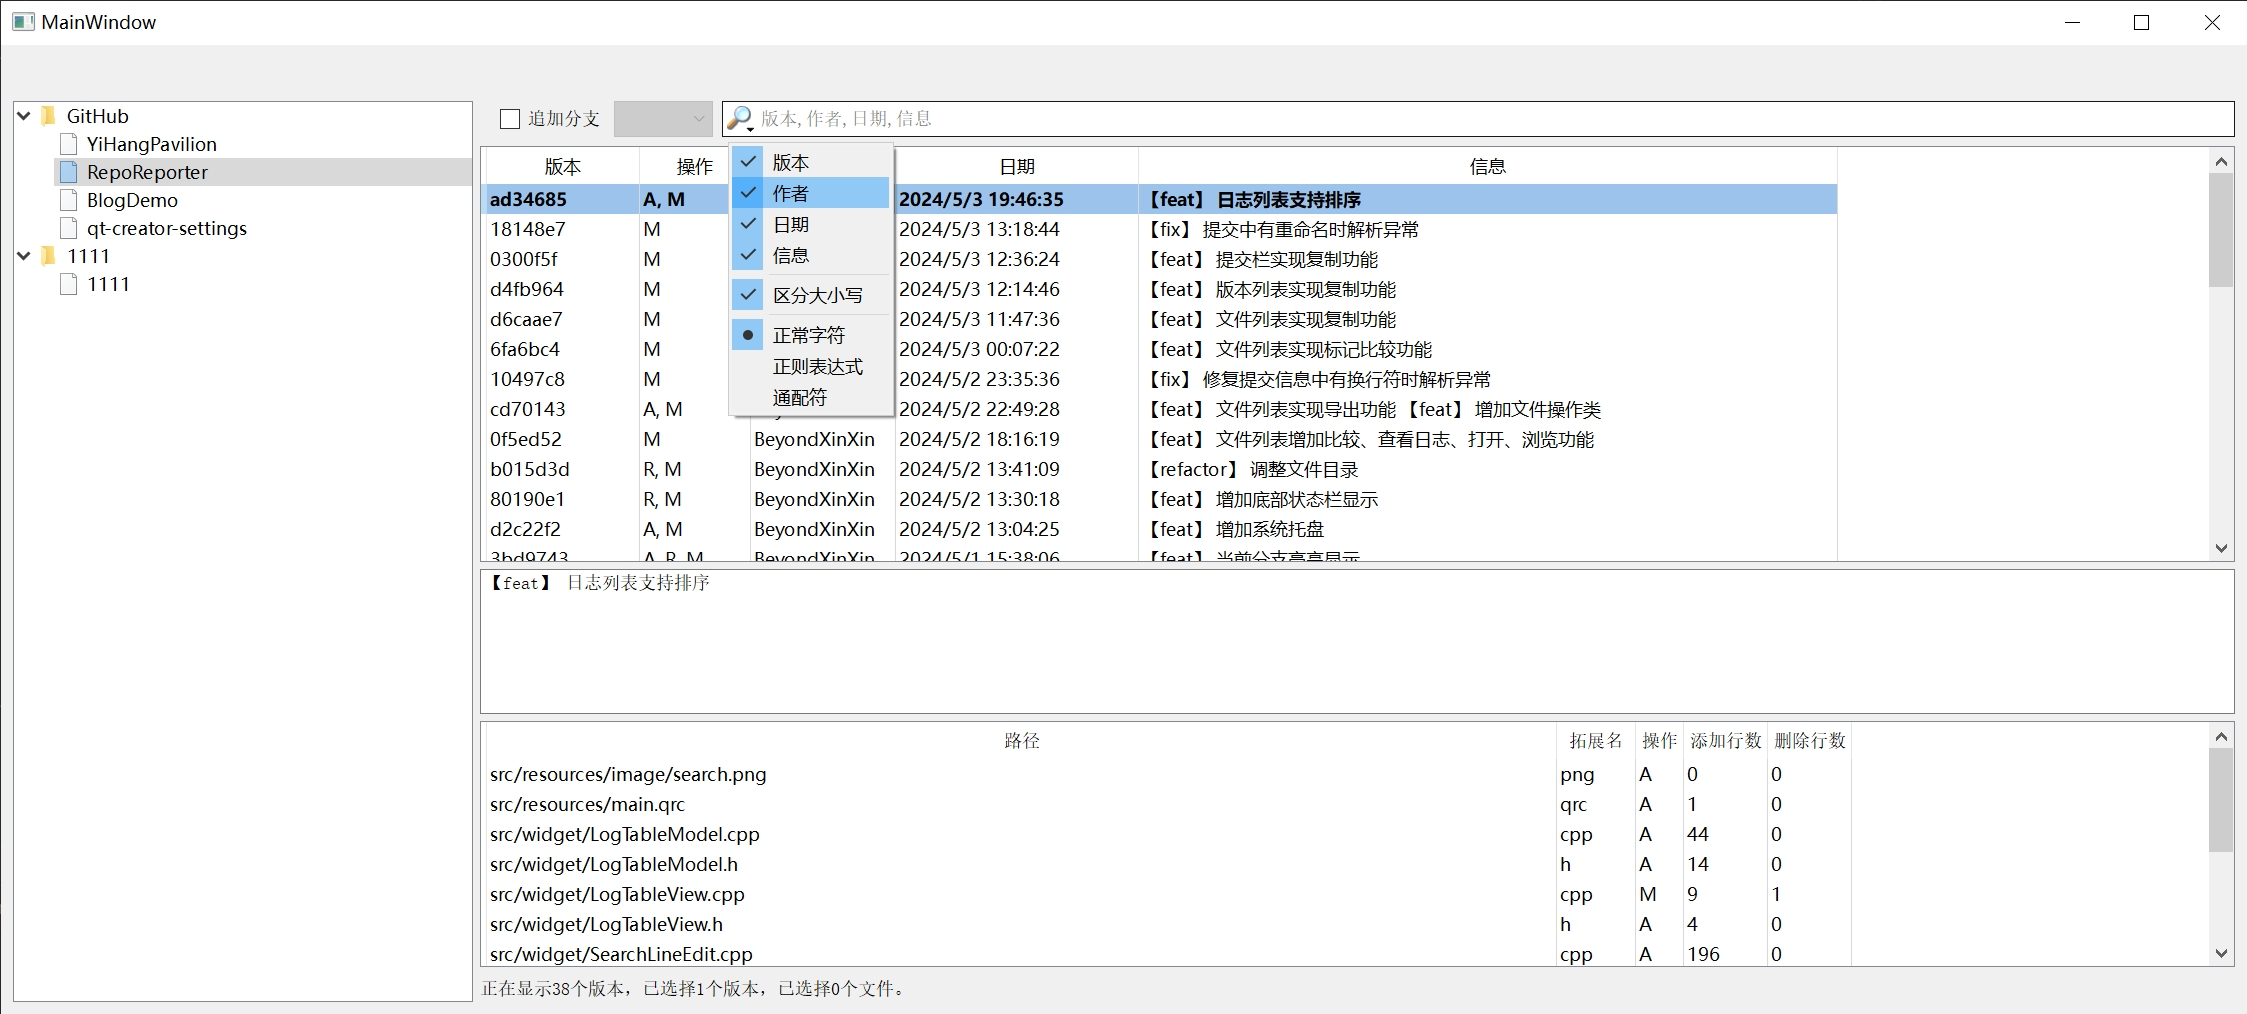
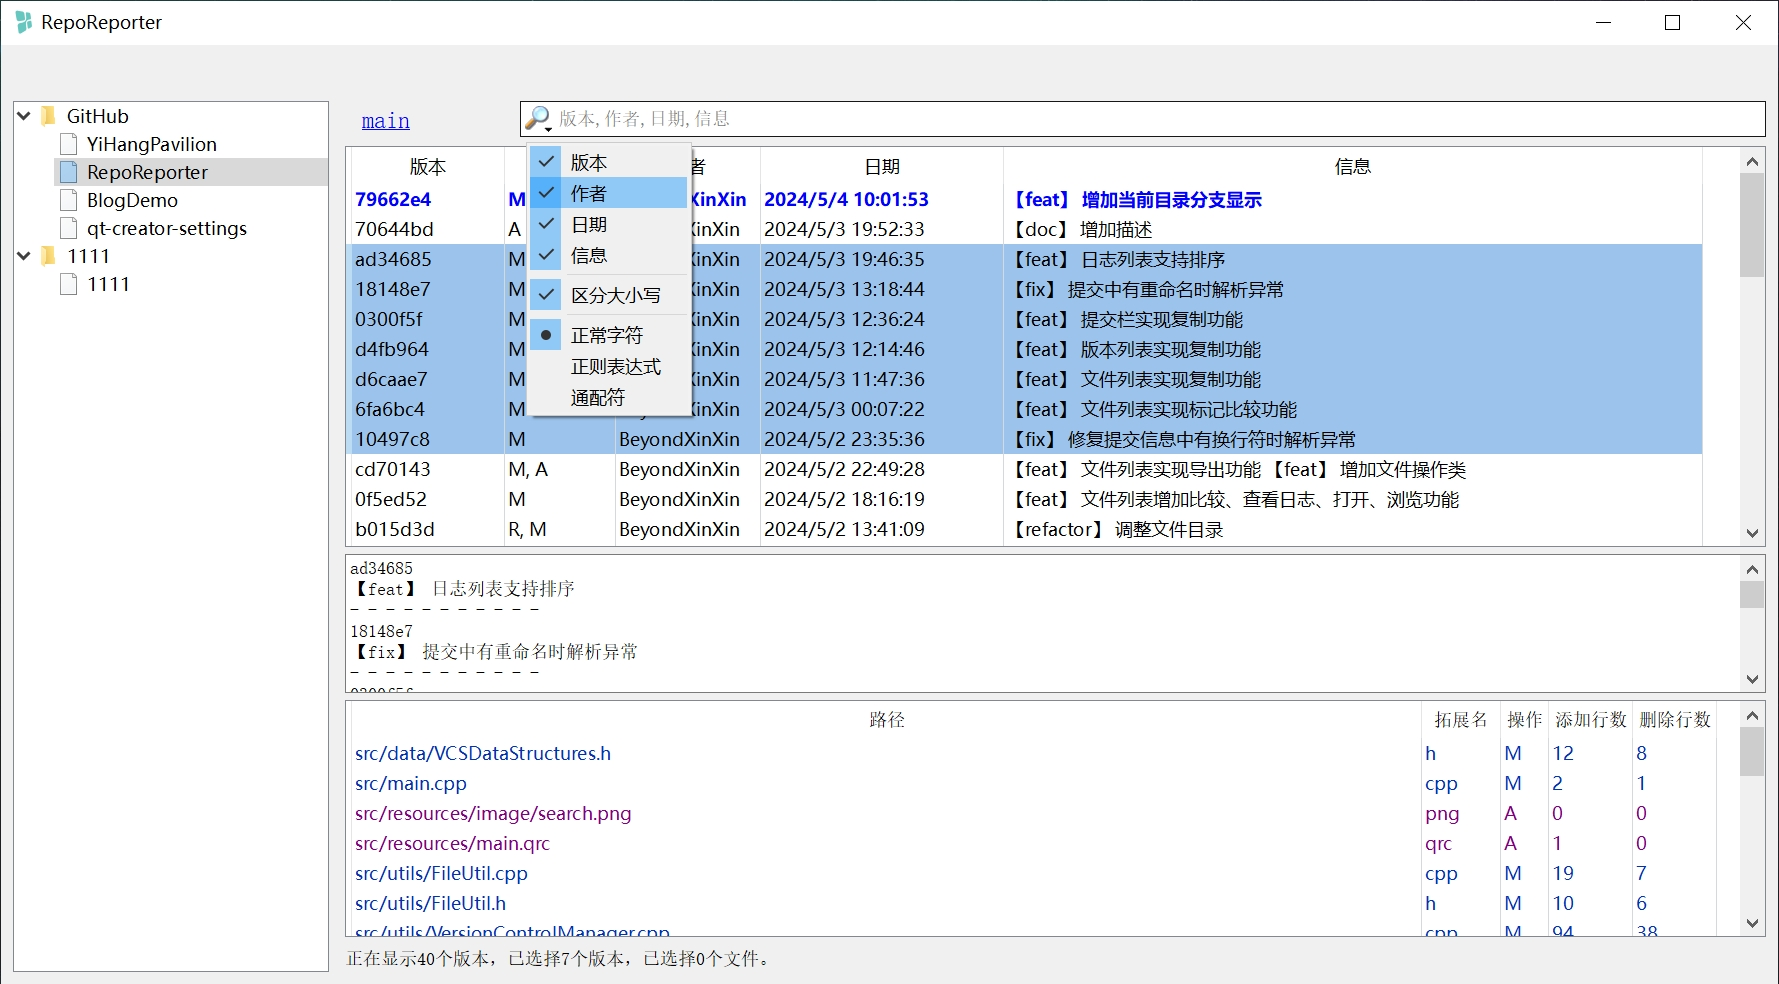
【style】 文件列表和日志列表根据操作区分颜色

diff --git a/src/widget/FileTableModel.cpp b/src/widget/FileTableModel.cpp
@@ -123,3 +123,49 @@ QVariant FileTableModel::headerData(int section, Qt::Orientation orientation, in
 
 	return QVariant();
 }
+
+FileTableDelegate::FileTableDelegate(QObject* parent) : QStyledItemDelegate(parent)
+{}
+
+void FileTableDelegate::paint(
+	QPainter* painter,
+	const QStyleOptionViewItem& option,
+	const QModelIndex& index) const
+{
+	QColor textColor = Qt::black;
+
+	auto model = index.model();
+	if (model) {
+		QModelIndex   siblingIndex = index.siblingAtColumn(2);
+		FileOperation operation =
+			StringToFileOperation(model->data(siblingIndex).toString());
+
+		switch (operation) {
+		case FileOperation::Add: {
+			textColor = AddColor;
+			break;
+		};
+
+		case FileOperation::Modify: {
+			textColor = ModifyColor;
+			break;
+		};
+
+		case FileOperation::Delete: {
+			textColor = DeleteColor;
+			break;
+		};
+
+		case FileOperation::Rename: {
+			textColor = RenameColor;
+			break;
+		};
+		}
+	}
+
+
+	QStyleOptionViewItem newOption(option);
+	newOption.palette.setColor(QPalette::Text,            textColor);
+	newOption.palette.setColor(QPalette::HighlightedText, textColor);
+	QStyledItemDelegate::paint(painter, newOption, index);
+}

diff --git a/src/data/VCSDataStructures.h b/src/data/VCSDataStructures.h
@@ -5,6 +5,7 @@
 #include <QDebug>
 #include <QString>
 #include <QDateTime>
+#include <QColor>
 
 /*
  * FileOperation
@@ -12,6 +13,10 @@
  * VCProjectPath
  */
 
+static const QColor AddColor(128, 0, 128);   // 紫色
+static const QColor ModifyColor(0, 50, 177); // 深蓝色
+static const QColor DeleteColor(100, 0, 58); // 暗红色
+static const QColor RenameColor(0, 0, 255);  // 蓝色
 
 // --------------------- FileOperation ---------------------
 
@@ -35,6 +40,21 @@ inline QString FileOperationToString(FileOperation operation)
 	case FileOperation::Rename: return QStringLiteral("R");
 
 	default: return QStringLiteral("Err");
+	}
+}
+
+inline FileOperation StringToFileOperation(QString str)
+{
+	if (str == "M") {
+		return FileOperation::Modify;
+	} else if (str == "A") {
+		return FileOperation::Add;
+	} else if (str == "D") {
+		return FileOperation::Delete;
+	} else if (str == "R") {
+		return FileOperation::Rename;
+	} else {
+		return FileOperation::Modify;
 	}
 }
 

diff --git a/src/widget/LogTableModel.cpp b/src/widget/LogTableModel.cpp
@@ -229,3 +229,29 @@ void LogTableSortFilterProxyModel::SetFilterItems(QList<int>filterItems)
 {
 	m_FilterItems = filterItems;
 }
+
+LogTableDelegate::LogTableDelegate(QObject* parent) : QStyledItemDelegate(parent)
+{}
+
+void LogTableDelegate::paint(
+	QPainter* painter,
+	const QStyleOptionViewItem& option,
+	const QModelIndex& index) const
+{
+	QStyleOptionViewItem newOption(option);
+	if (index.row() == m_CurVerRow) {
+		newOption.font.setBold(true);
+		newOption.palette.setColor(QPalette::Text,            Qt::blue);
+		newOption.palette.setColor(QPalette::HighlightedText, Qt::blue);
+	} else {
+		newOption.palette.setColor(QPalette::Text,            Qt::black);
+		newOption.palette.setColor(QPalette::HighlightedText, Qt::black);
+	}
+
+	QStyledItemDelegate::paint(painter, newOption, index);
+}
+
+void LogTableDelegate::SetCurrentVersionRow(int row)
+{
+	m_CurVerRow = row;
+}

diff --git a/src/widget/LogTableModel.h b/src/widget/LogTableModel.h
@@ -3,6 +3,7 @@
 
 #include <QAbstractItemModel>
 #include <QSortFilterProxyModel>
+#include <QStyledItemDelegate>
 
 #include "data/VCSDataStructures.h"
 
@@ -55,6 +56,23 @@ public:
 private:
 
 	QList<int>m_FilterItems;
+};
+
+class LogTableDelegate : public QStyledItemDelegate {
+public:
+
+	LogTableDelegate(QObject* parent = nullptr);
+
+	void paint(
+		QPainter* painter,
+		const QStyleOptionViewItem& option,
+		const QModelIndex& index) const override;
+
+	void SetCurrentVersionRow(int row);
+
+private:
+
+	int m_CurVerRow = -1;
 };
 
 #endif // LOGMODEL_H

diff --git a/src/widget/FileTableModel.h b/src/widget/FileTableModel.h
@@ -3,6 +3,7 @@
 
 #include <QAbstractItemModel>
 #include <QMap>
+#include <QStyledItemDelegate>
 
 #include "data/VCSDataStructures.h"
 
@@ -28,6 +29,17 @@ public:
 private:
 
 	QList<VCFileEntry>m_Files;
+};
+
+class FileTableDelegate : public QStyledItemDelegate {
+public:
+
+	FileTableDelegate(QObject* parent = nullptr);
+
+	void paint(
+		QPainter* painter,
+		const QStyleOptionViewItem& option,
+		const QModelIndex& index) const override;
 };
 
 #endif // LOGMODEL_H

diff --git a/src/widget/FileTableView.h b/src/widget/FileTableView.h
@@ -5,6 +5,7 @@
 #include <QTableView>
 
 class FileTableModel;
+class FileTableDelegate;
 
 class FileTableView : public QTableView {
 	Q_OBJECT
@@ -64,6 +65,7 @@ private:
 	QAction* m_CopyFileNameAction;
 
 	FileTableModel* m_Model;
+	FileTableDelegate* m_Delegate;
 	QString m_CurPaht;
 
 	QList<QString>m_CurVersions;

diff --git a/src/widget/FileTableView.cpp b/src/widget/FileTableView.cpp
@@ -19,6 +19,8 @@ FileTableView::FileTableView(QWidget* parent)
 {
 	m_Model = new FileTableModel(this);
 	setModel(m_Model);
+	m_Delegate = new FileTableDelegate(this);
+	setItemDelegate(m_Delegate);
 
 	InitUI();
 	InitConnect();

diff --git a/src/widget/LogTableView.cpp b/src/widget/LogTableView.cpp
@@ -8,7 +8,6 @@
 #include <QClipboard>
 
 #include "LogTableModel.h"
-#include "LogTableDelegate.h"
 #include "utils/VersionControlManager.h"
 #include "utils/ConfigManager.h"
 #include "utils/FileUtil.h"

diff --git a/README.md b/README.md
@@ -3,4 +3,5 @@
 仿照`TortoiseSVN`项目监视器，做一个能同时支持svn和git仓库的监视器。
 
 ![](doc/doc1.jpg)
+![](doc/doc2.jpg)
 
